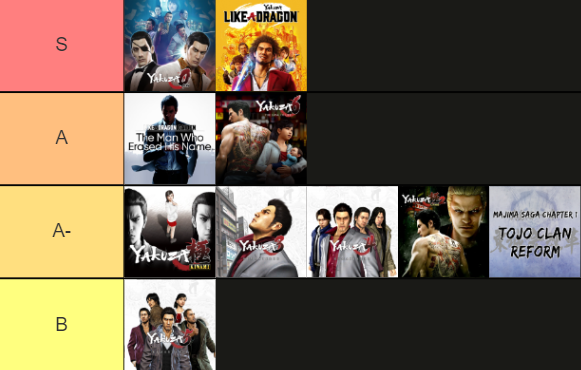
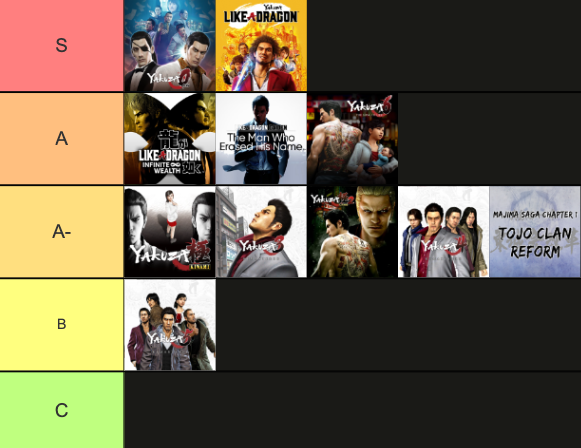
Update Yakuza series prog

diff --git a/src/pages/yakuza.md b/src/pages/yakuza.md
@@ -10,7 +10,7 @@ layout: ../components/YakuzaLayout.astro
 - [x] 🔎 Yakuza 6: The Song of Life <sub>30 hrs</sub>
 - [x] 👑 Yakuza: Like a Dragon <sub>80 hrs</sub>
 - [x] 👑 Like a Dragon Gaiden <sub>30 hrs</sub>
-- [ ] ✨ Like a Dragon: Infinite Wealth
+- [x] ✨ Like a Dragon: Infinite Wealth
 - [ ] Like a Dragon: Ishin!
 - [ ] Judgment
 - [ ] Lost Judgment
